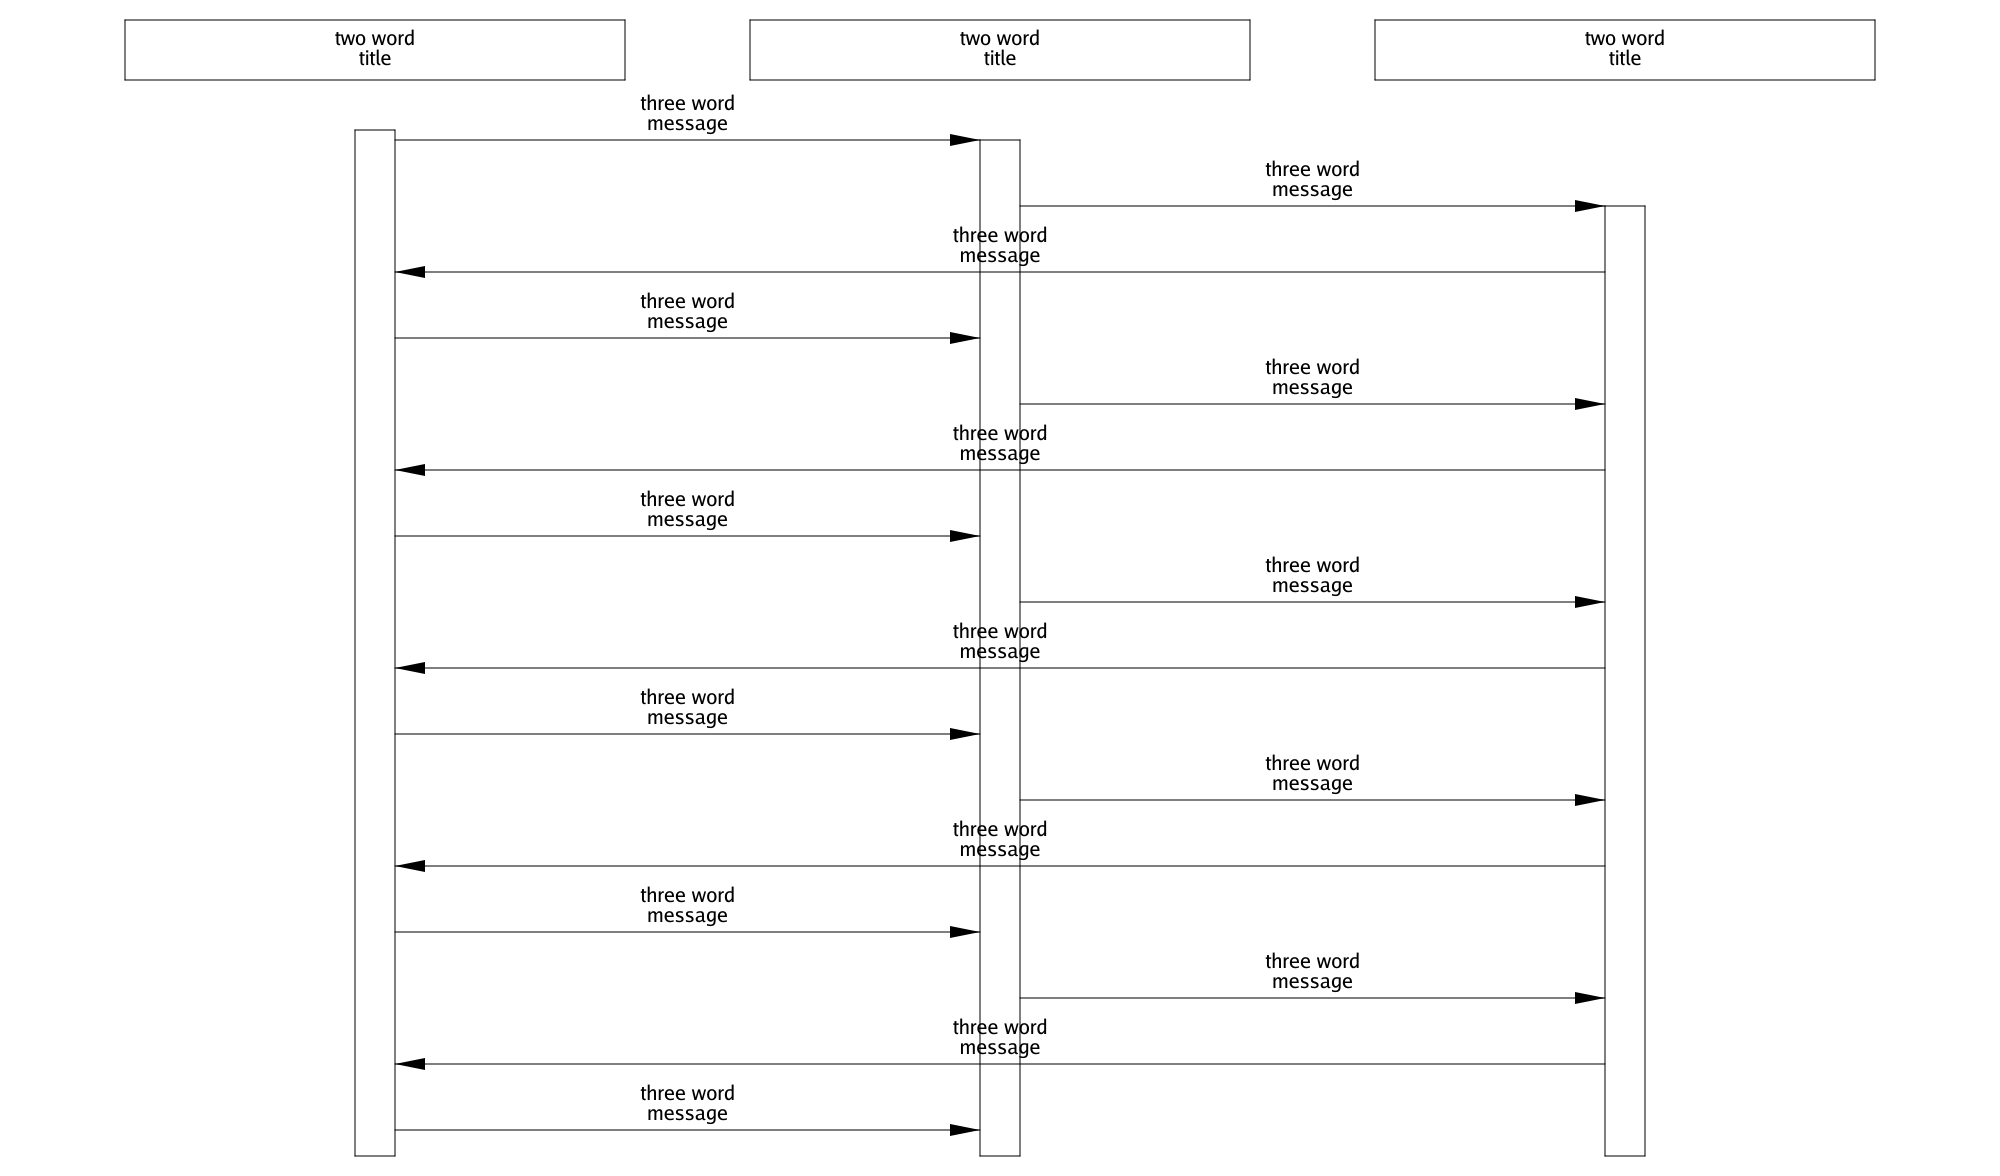
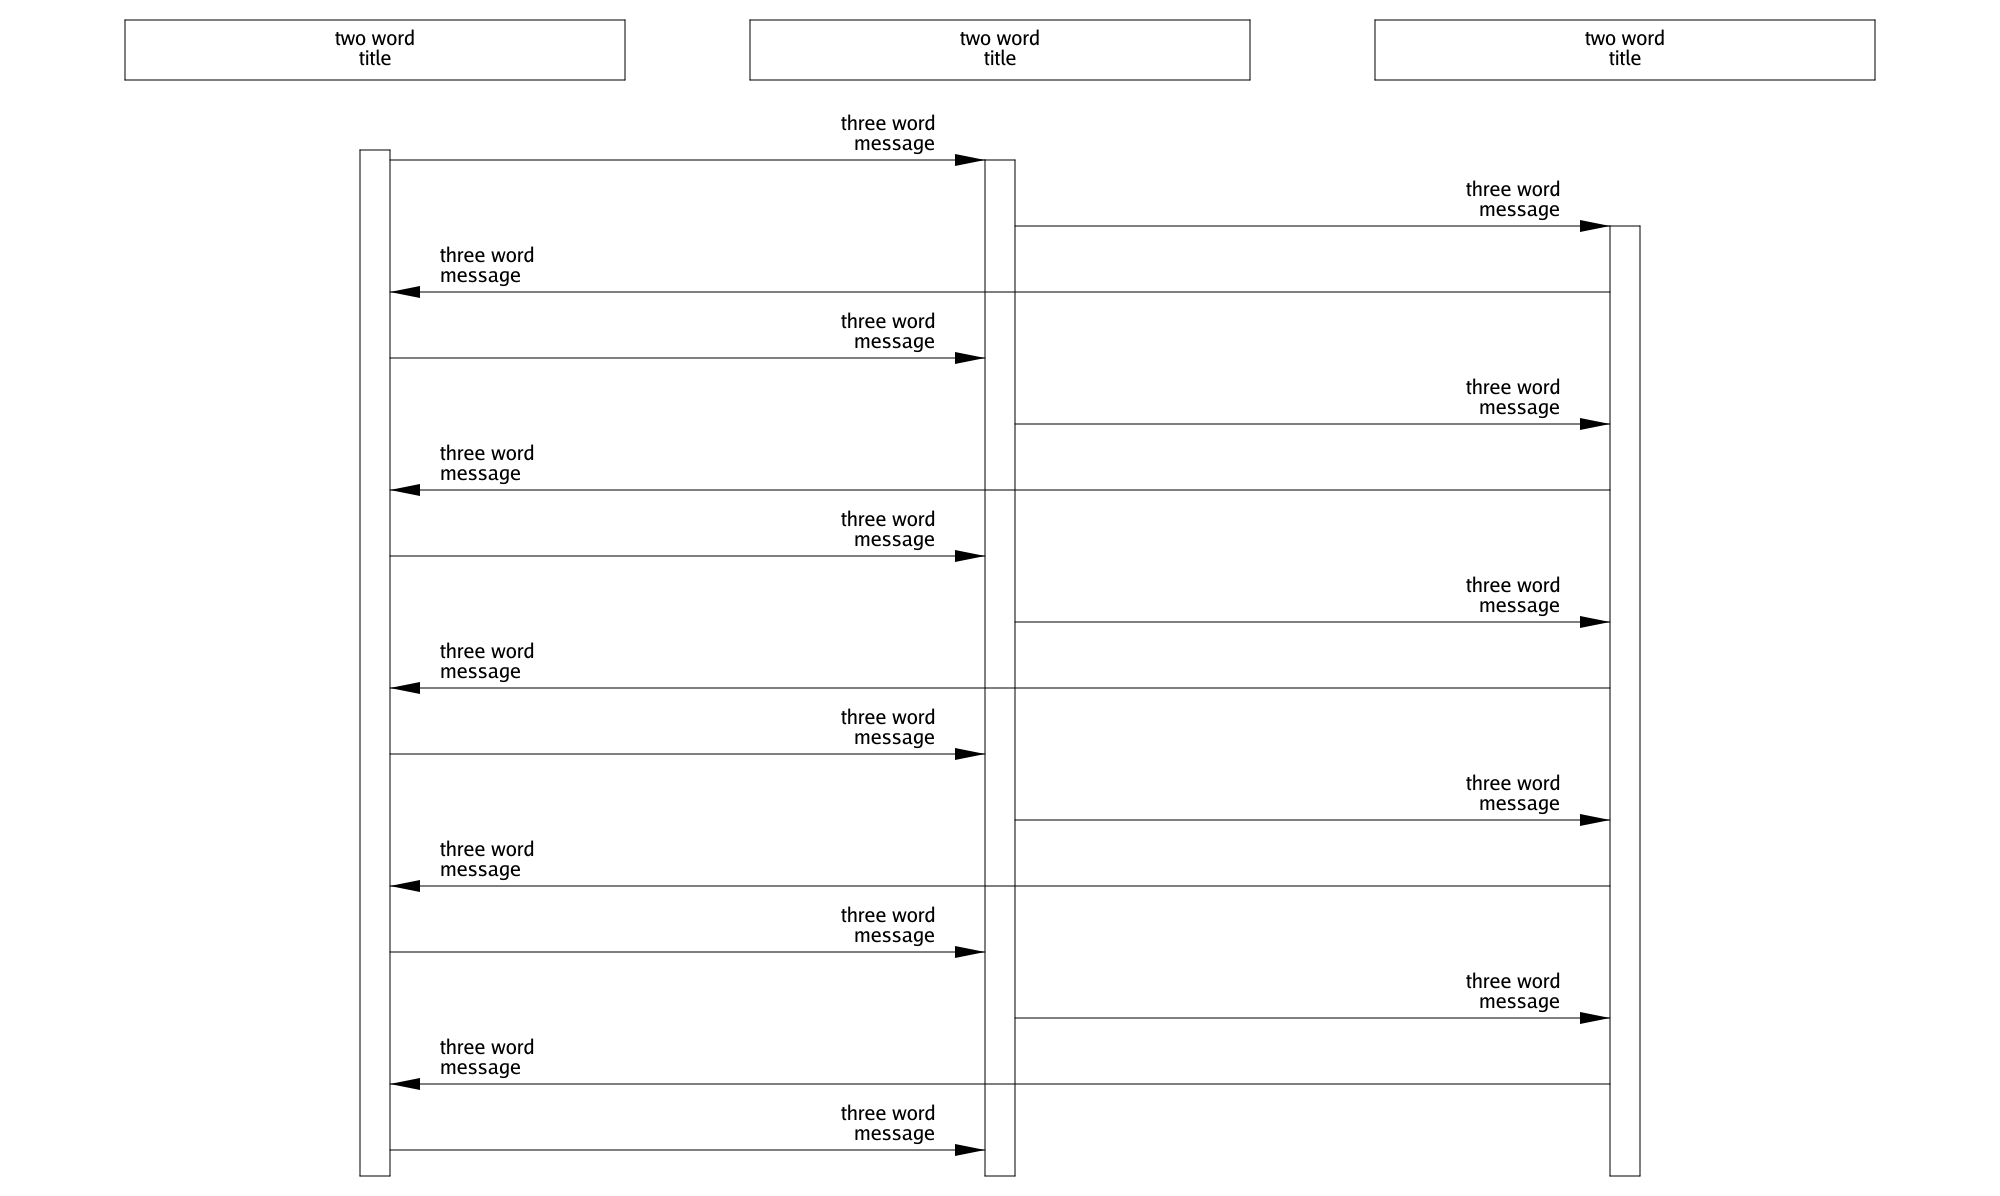
Make label texts near interaction arrows and L|R justified

diff --git a/diag/creator.go b/diag/creator.go
@@ -129,8 +129,6 @@ func (c *Creator) graphicsForDrawingEvent(evt EventType,
 		c.laneTitleBox(statement)
 	case SelfInteractionLines:
 		c.selfInteractionLines(statement)
-	case SelfInteractionLabel:
-		c.selfInteractionLabels(statement)
 	case PotentiallyStartFromBox:
 		c.potentiallyStartFromBox(statement)
 	case PotentiallyStartToBox:
@@ -174,10 +172,10 @@ func (c *Creator) interactionLabel(
 	statement *dslmodel.Statement) {
 	sourceLane := statement.ReferencedLanes[0]
 	destLane := statement.ReferencedLanes[1]
-	centreX := 0.5 * (c.sizer.Lanes.Individual[sourceLane].Centre +
-		c.sizer.Lanes.Individual[destLane].Centre)
+	x, horizJustification := c.sizer.Lanes.InteractionLabelPosition(
+		sourceLane, destLane, c.sizer.InteractionLineLabelIndent)
 	firstRowY := c.tideMark
-	c.rowOfLabels(centreX, firstRowY, statement.LabelSegments)
+	c.rowOfLabels(x, firstRowY, horizJustification, statement.LabelSegments)
 	c.tideMark += float64(len(statement.LabelSegments))*
 		c.fontHeight + c.sizer.InteractionLineTextPadB
 }
@@ -187,27 +185,30 @@ selfInteractionLabels generates the labels that sit above one of the *self*
 interaction loops. It then claims the vertical space it has consumed for
 itself by advancing the tide mark.
 */
+/*
 func (c *Creator) selfInteractionLabels(
 	statement *dslmodel.Statement) {
 	theLane := statement.ReferencedLanes[0]
-	labelCentreX := c.sizer.Lanes.Individual[theLane].SelfLoopCentre
+	labelX := c.sizer.Lanes.Individual[theLane].ActivityBoxRight +
+		c.sizer.InteractionLineLabelIndent
 	firstRowY := c.tideMark
-	c.rowOfLabels(labelCentreX, firstRowY, statement.LabelSegments)
+	c.rowOfLabels(labelX, firstRowY, graphics.Left, statement.LabelSegments)
 	c.tideMark += float64(len(statement.LabelSegments))*
 		c.fontHeight + c.sizer.InteractionLineTextPadB
 }
+*/
 
 /*
 rowOfLabels is a (DRY) helper function to make the graphics.Primitives
-objects for the set of strings in a label. It hard-codes centred horizontal
-justification and top vertical justification.
+objects for the set of strings in a label. It hard-codes top vertical
+justification.
 */
 func (c *Creator) rowOfLabels(centreX float64, firstRowY float64,
-	labelSegments []string) {
+	horizJustification graphics.Justification, labelSegments []string) {
 	for i, labelSeg := range labelSegments {
 		y := firstRowY + float64(i)*c.fontHeight
 		c.graphicsModel.Primitives.AddLabel(labelSeg, c.fontHeight,
-			centreX, y, graphics.Centre, graphics.Top)
+			centreX, y, horizJustification, graphics.Top)
 	}
 }
 
@@ -249,6 +250,13 @@ func (c *Creator) selfInteractionLines(
 	arrowVertices := makeArrow(right, left, bot,
 		c.sizer.ArrowLen, c.sizer.ArrowHeight)
 	prims.AddFilledPoly(arrowVertices)
+
+	// Labels go inside the self-loop.
+	labelX := left + c.sizer.InteractionLineLabelIndent
+	n := len(statement.LabelSegments)
+	firstRowY := bot - float64(n)*c.fontHeight - c.sizer.InteractionLineTextPadB
+	c.rowOfLabels(labelX, firstRowY, graphics.Left, statement.LabelSegments)
+
 	c.tideMark = bot + c.sizer.InteractionLinePadB
 }
 

diff --git a/sizer/lanes.go b/sizer/lanes.go
@@ -5,6 +5,7 @@ package sizers
 
 import (
 	"github.com/peterhoward42/umli/dslmodel"
+	"github.com/peterhoward42/umli/graphics"
 )
 
 // Naming conventions:
@@ -65,17 +66,34 @@ func NewLanes(diagramWidth int, fontHeight float64,
 // InteractionLineEndPoints works out the x coordinates for an interaction
 // line between two given lifelines.
 func (lanes *Lanes) InteractionLineEndPoints(
-	fromLane, toLane *dslmodel.Statement) (x1, x2 float64) {
-	fromLaneSiz := lanes.Individual[fromLane]
-	toLaneSiz := lanes.Individual[toLane]
-	if toLaneSiz.Centre > fromLaneSiz.Centre {
-		x1 = fromLaneSiz.ActivityBoxRight
-		x2 = toLaneSiz.ActivityBoxLeft
+	sourceLane, destLane *dslmodel.Statement) (x1, x2 float64) {
+	sourceLaneSiz := lanes.Individual[sourceLane]
+	destLaneSiz := lanes.Individual[destLane]
+	if destLaneSiz.Centre > sourceLaneSiz.Centre {
+		x1 = sourceLaneSiz.ActivityBoxRight
+		x2 = destLaneSiz.ActivityBoxLeft
 	} else {
-		x1 = fromLaneSiz.ActivityBoxLeft
-		x2 = toLaneSiz.ActivityBoxRight
+		x1 = sourceLaneSiz.ActivityBoxLeft
+		x2 = destLaneSiz.ActivityBoxRight
 	}
 	return
+}
+
+// InteractionLabelPosition works out the position and justification
+// that should be used for an interaction line's label.
+func (lanes *Lanes) InteractionLabelPosition(
+    sourceLane, destLane *dslmodel.Statement, padding float64) (
+    x float64, horizJustification graphics.Justification) {
+	sourceLaneSiz := lanes.Individual[sourceLane]
+	destLaneSiz := lanes.Individual[destLane]
+	if destLaneSiz.Centre > sourceLaneSiz.Centre {
+        x = destLaneSiz.ActivityBoxLeft - padding
+        horizJustification = graphics.Right
+    } else {
+        x = destLaneSiz.ActivityBoxRight + padding
+        horizJustification = graphics.Left
+    }
+    return
 }
 
 // populateTitleBoxAttribs works out the values for the TitleBoxXXX attributes.

diff --git a/sizer/settings.go b/sizer/settings.go
@@ -18,21 +18,22 @@ const (
 	titleBoxPadRK     = 0.25 // w.r.t title box width
 	titleBoxTextPadTK = 0.25 // Between top of title box and first line txt
 	titleBoxTextPadBK = 0.75 // Between text and the bottom of title box
-	titleBoxPadBK     = 0.5  // Below entire title box
+	titleBoxPadBK     = 1.5  // Below entire title box
 
 	// Full and Dashed interaction lines
 	dashLineDashLenK = 0.5
 	dashLineDashGapK = 0.25
 
-	interactionLinePadBK     = 0.5 // Allows for half arrow height!
-	interactionLineTextPadBK = 0.5 // Between the text and its line
-	arrowLenK                = 1.5
-	arrowAspectRatio         = 0.4 // Width of arrow head w.r.t. length
+	interactionLinePadBK       = 0.5 // Allows for half arrow height!
+	interactionLineTextPadBK   = 0.5 // Between the text and its line
+	interactionLineLabelIndent = 1.0 // Offset from arrow
+	arrowLenK                  = 1.5
+	arrowAspectRatio           = 0.4 // Width of arrow head w.r.t. length
 
 	// Self interactions
 	selfLoopAspectRatio = 0.6 // Width ratio to height of the three lines
 
 	// Lifeline activity boxes
-	activityBoxWidthK           = 2.0
+	activityBoxWidthK           = 1.5
 	activityBoxVerticalOverlapK = 0.5
 )

diff --git a/sizer/sizer.go b/sizer/sizer.go
@@ -28,6 +28,7 @@ type Sizer struct {
 	Lanes                      *Lanes
 	InteractionLinePadB        float64
 	InteractionLineTextPadB    float64
+	InteractionLineLabelIndent float64
 	ArrowLen                   float64
 	ArrowHeight                float64
 	DashLineDashLen            float64
@@ -44,10 +45,13 @@ func NewSizer(diagramWidth int, fontHeight float64,
 	sizer.DiagramPadT = diagramPadTK * fontHeight
 	sizer.DiagramPadB = diagramPadBK * fontHeight
 	sizer.Lanes = NewLanes(diagramWidth, fontHeight, lifelineStatements)
-	sizer.InteractionLinePadB = interactionLinePadBK * fontHeight
-	sizer.InteractionLineTextPadB = interactionLineTextPadBK * fontHeight
+
 	sizer.ArrowLen = arrowLenK * fontHeight
 	sizer.ArrowHeight = arrowAspectRatio * sizer.ArrowLen
+	sizer.InteractionLinePadB = interactionLinePadBK * fontHeight
+	sizer.InteractionLineTextPadB = interactionLineTextPadBK * fontHeight
+	sizer.InteractionLineLabelIndent = sizer.ArrowLen +
+		interactionLineLabelIndent*fontHeight
 	sizer.DashLineDashLen = dashLineDashLenK * fontHeight
 	sizer.DashLineDashGap = dashLineDashGapK * fontHeight
 	sizer.SelfLoopHeight = sizer.Lanes.SelfLoopWidth * selfLoopAspectRatio

diff --git a/sizer/sizer_test.go b/sizer/sizer_test.go
@@ -18,6 +18,7 @@ func TestNewSizerSetsItsScalarAttributesCorrectlyWhenOneLaneOnly(t *testing.T) {
 	assert.InDelta(10, sizer.InteractionLineTextPadB, 0.1)
 	assert.InDelta(30, sizer.ArrowLen, 0.1)
 	assert.InDelta(12, sizer.ArrowHeight, 0.1)
+	assert.InDelta(70, sizer.InteractionLineLabelIndent, 0.1)
 	assert.InDelta(10, sizer.DashLineDashLen, 0.1)
 	assert.InDelta(5, sizer.DashLineDashGap, 0.1)
 	assert.InDelta(400, sizer.SelfLoopHeight, 0.1)

diff --git a/diag/events.go b/diag/events.go
@@ -56,9 +56,8 @@ var EventsRequired = map[string][]EventType{
 		InteractionLine,         // advances tidemark
 	},
 	umli.Self: []EventType{
-		SelfInteractionLabel,    // advances tidemark
 		PotentiallyStartFromBox, // no advance (renders behind tidemark)
-		SelfInteractionLines,    // advances tidemark
+		SelfInteractionLines,    // advances tidemark (includes label inside loop)
 	},
 	umli.Stop: []EventType{
 		EndBox,

diff --git a/diag/scanner_test.go b/diag/scanner_test.go
@@ -27,5 +27,5 @@ func TestScannerProperlyAggregatesGraphicsEvents(t *testing.T) {
 	eventsLookup := scanner.Scan([]*dslmodel.Statement{lane, self})
 
 	assert.Len(eventsLookup[lane], 2)
-	assert.Len(eventsLookup[self], 3)
+	assert.Len(eventsLookup[self], 2)
 }
